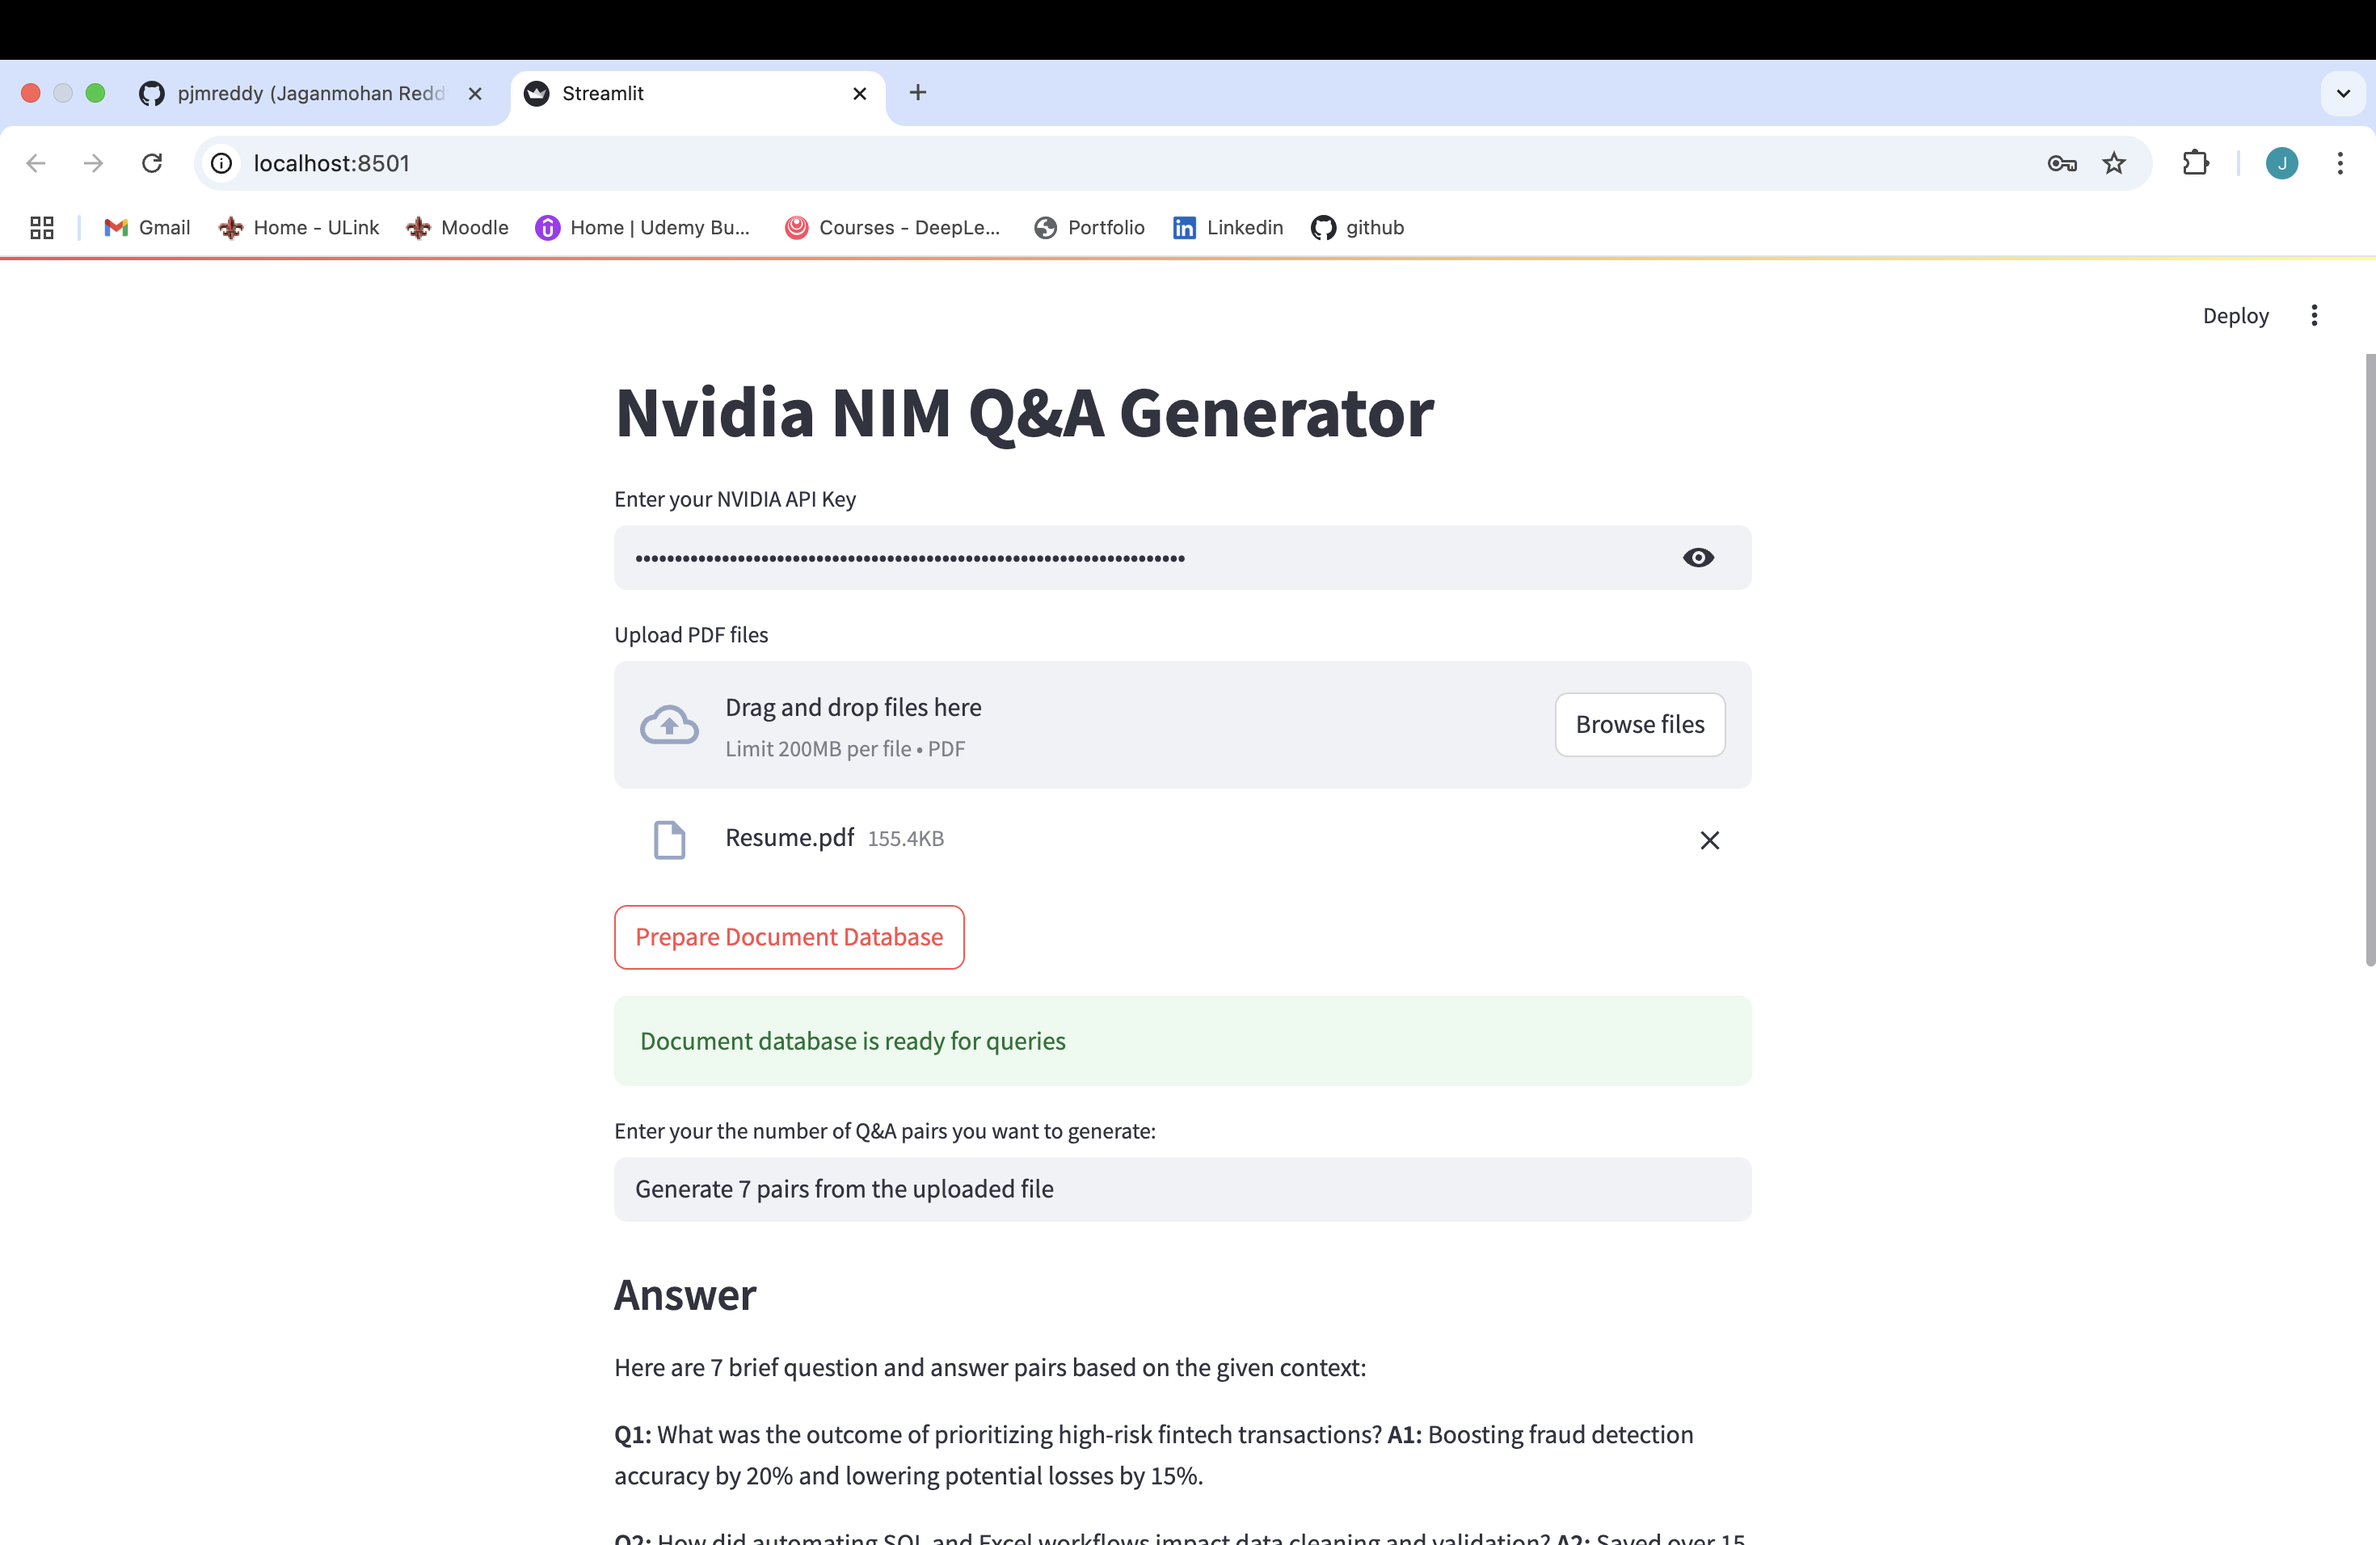
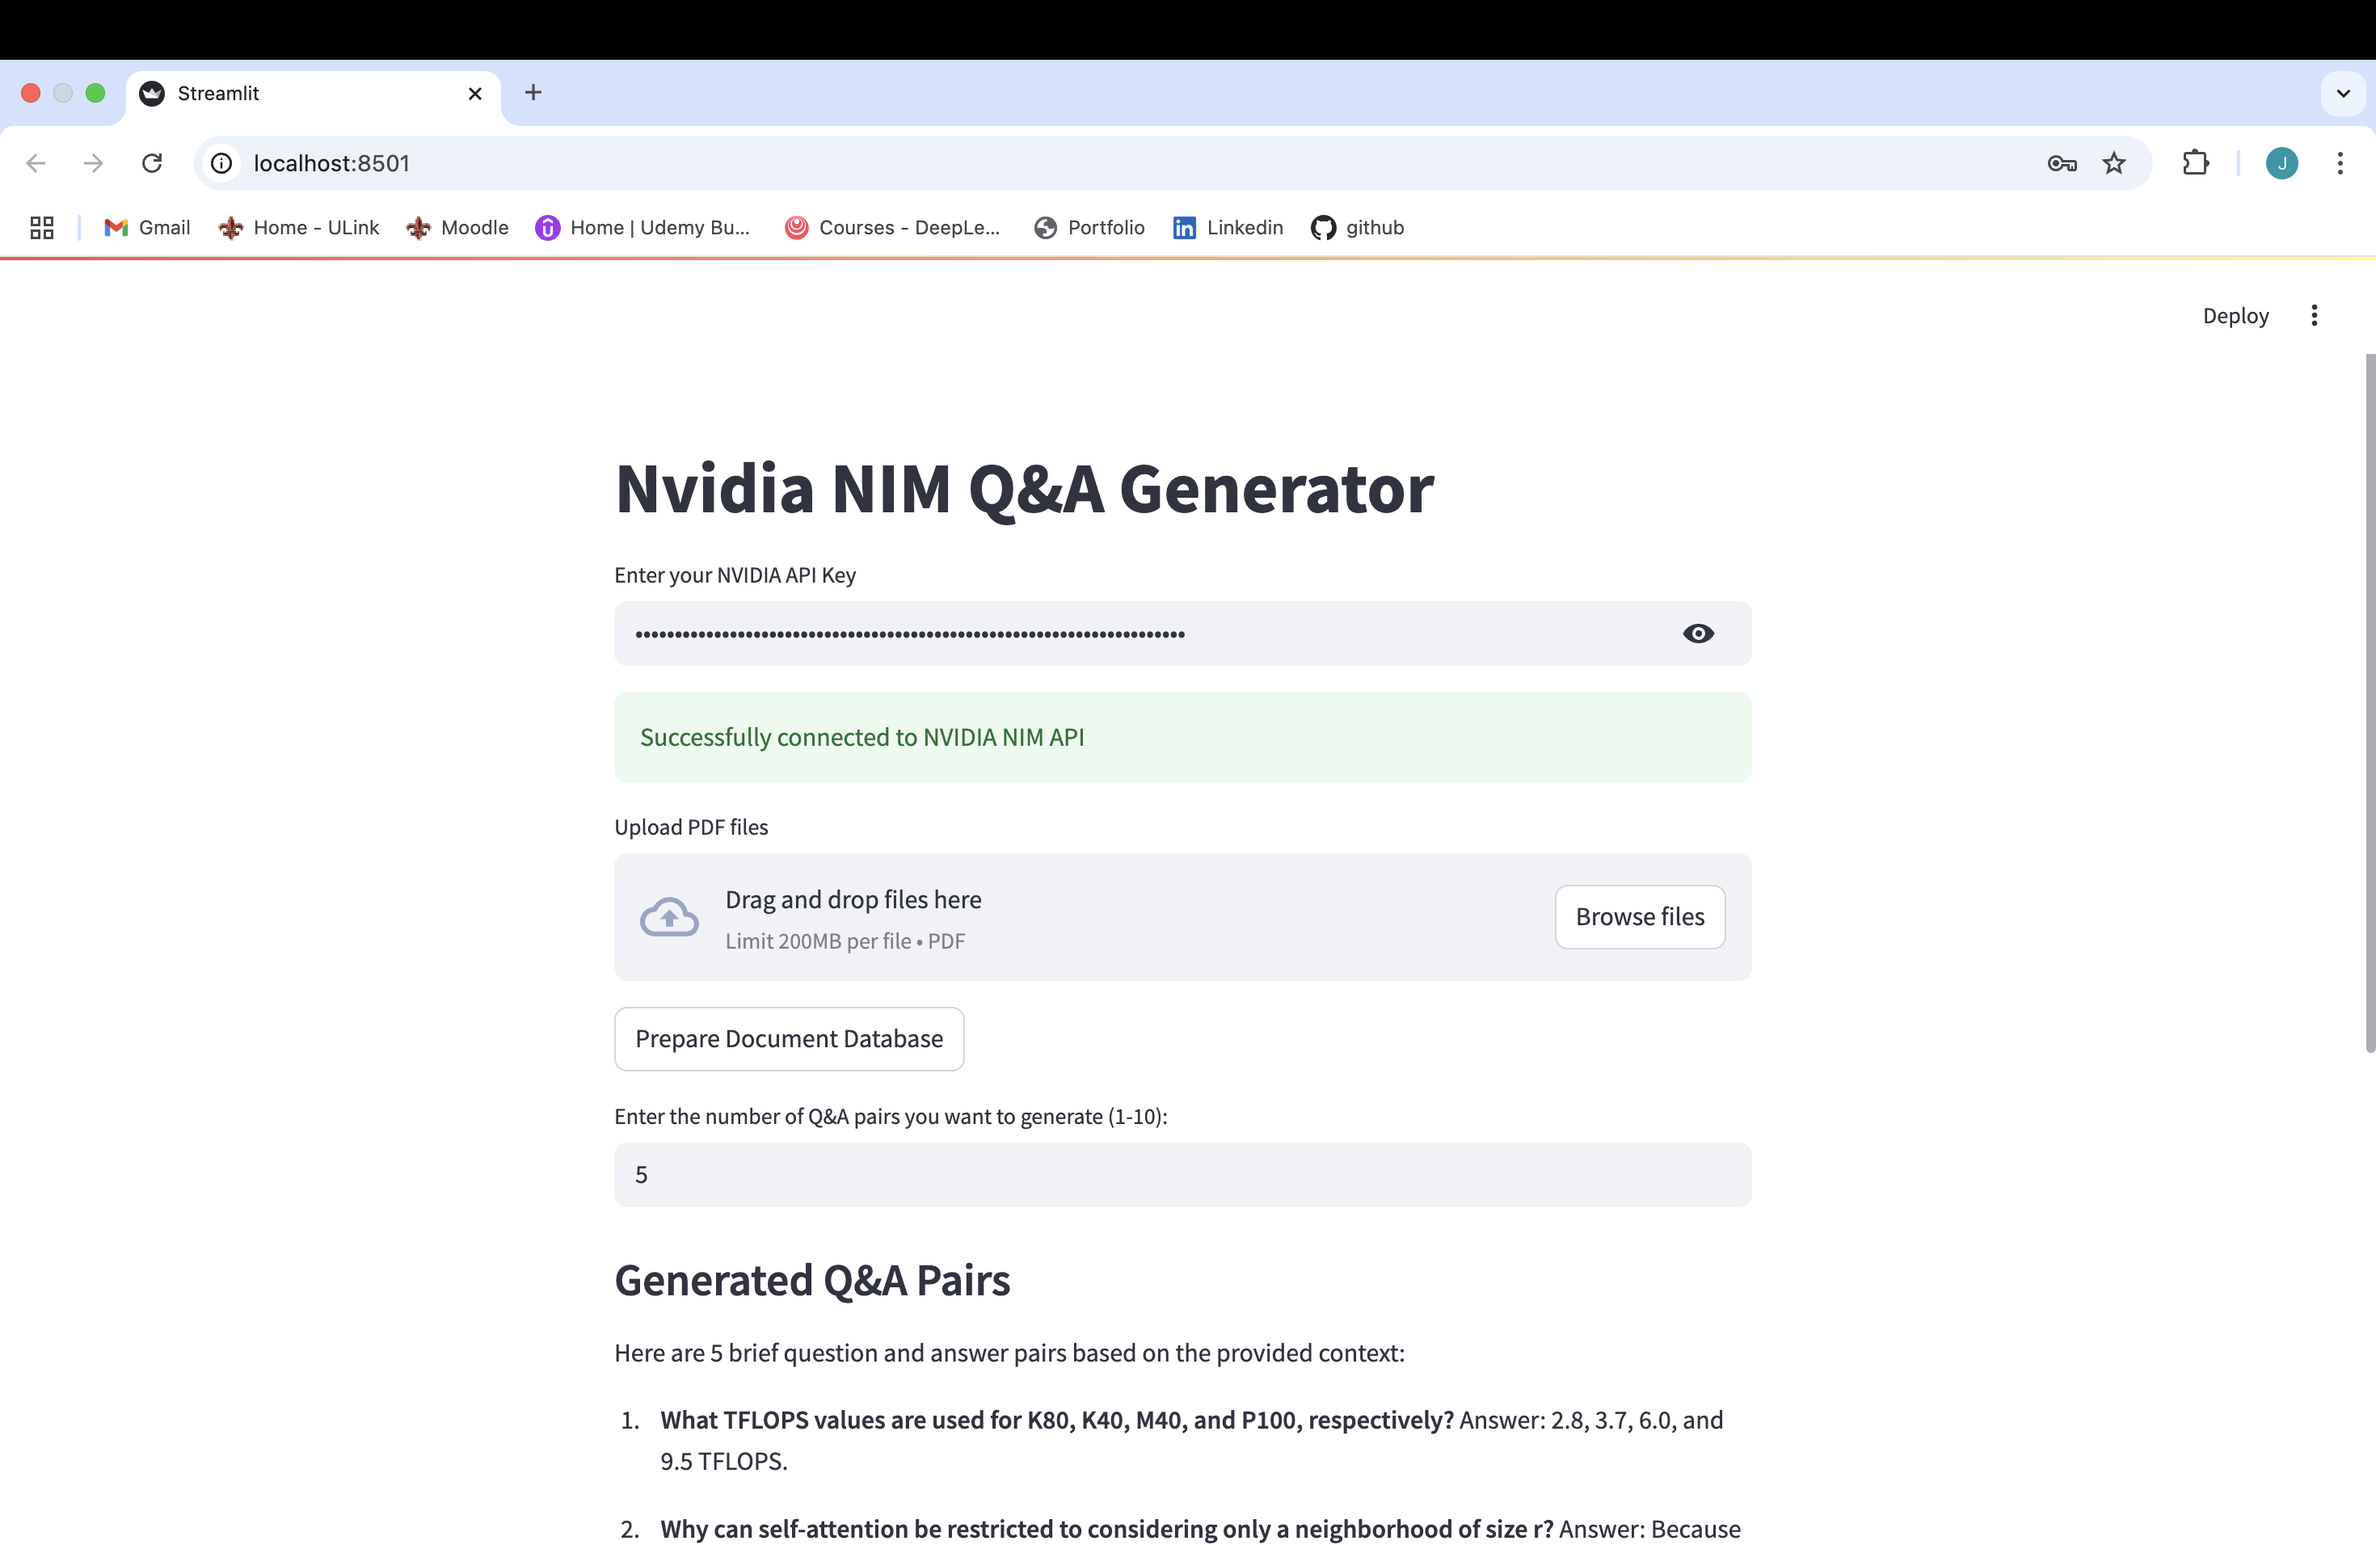
upgrade

diff --git a/nvidia_nim.py b/nvidia_nim.py
@@ -27,50 +27,84 @@ elif not api_key.startswith("nvapi"):
 os.environ['NVIDIA_API_KEY'] = api_key
 
 # Initialize the LLM
-llm = ChatNVIDIA(model="meta/llama3-70b-instruct")
+try:
+    llm = ChatNVIDIA(model="meta/llama3-70b-instruct")
+    st.success("Successfully connected to NVIDIA NIM API")
+except Exception as e:
+    st.error(f"Error connecting to NVIDIA NIM API: {str(e)}")
+    st.info("Please check your API key and try again")
+    st.stop()
 
 # Function to create vector embeddings
 def create_vector_db():
     if "vector_store" not in st.session_state:
-        # Create embeddings
-        embeddings = NVIDIAEmbeddings()
-        
-        if uploaded_files:
-            # Save uploaded files temporarily
-            temp_dir = "./temp_uploads"
-            os.makedirs(temp_dir, exist_ok=True)
-            for file in uploaded_files:
-                with open(os.path.join(temp_dir, file.name), "wb") as f:
-                    f.write(file.getbuffer())
-            doc_loader = PyPDFDirectoryLoader(temp_dir)
-        else:
-            # Default to us_census directory if no files uploaded
-            doc_loader = PyPDFDirectoryLoader("./temp")
+        try:
+            # Create embeddings
+            embeddings = NVIDIAEmbeddings()
             
-        documents = doc_loader.load()
-        
-        # Split documents into chunks
-        text_splitter = RecursiveCharacterTextSplitter(chunk_size=700, chunk_overlap=50)
-        doc_chunks = text_splitter.split_documents(documents[:30])
-        
-        # Create vector store
-        st.session_state.vector_store = FAISS.from_documents(doc_chunks, embeddings)
-        
-        # Clean up temp files if they exist
-        if uploaded_files and os.path.exists(temp_dir):
-            for file in os.listdir(temp_dir):
-                os.remove(os.path.join(temp_dir, file))
-            os.rmdir(temp_dir)
+            # Check if files were uploaded and process them first
+            if uploaded_files and len(uploaded_files) > 0:
+                st.info(f"Processing {len(uploaded_files)} uploaded PDF files...")
+                # Save uploaded files temporarily
+                temp_dir = "./temp_uploads"
+                os.makedirs(temp_dir, exist_ok=True)
+                for file in uploaded_files:
+                    with open(os.path.join(temp_dir, file.name), "wb") as f:
+                        f.write(file.getbuffer())
+                doc_loader = PyPDFDirectoryLoader(temp_dir)
+                
+                documents = doc_loader.load()
+                
+                # Split documents into chunks
+                text_splitter = RecursiveCharacterTextSplitter(chunk_size=700, chunk_overlap=50)
+                doc_chunks = text_splitter.split_documents(documents[:30])
+                
+                # Create vector store with progress indicator
+                with st.spinner("Creating vector embeddings... This may take a moment"):
+                    st.session_state.vector_store = FAISS.from_documents(doc_chunks, embeddings)
+                
+                # Clean up temp files
+                if os.path.exists(temp_dir):
+                    for file in os.listdir(temp_dir):
+                        os.remove(os.path.join(temp_dir, file))
+                    os.rmdir(temp_dir)
+            else:
+                # Default to temp directory if no files uploaded
+                st.info("No files uploaded. Using saved files from temp directory...")
+                temp_dir = "./temp"
+                os.makedirs(temp_dir, exist_ok=True)
+                # Check if directory has files
+                if not os.listdir(temp_dir):
+                    st.error("No files found in the default directory. Please upload PDF files.")
+                    return
+                    
+                doc_loader = PyPDFDirectoryLoader(temp_dir)
+                documents = doc_loader.load()
+                
+                # Split documents into chunks
+                text_splitter = RecursiveCharacterTextSplitter(chunk_size=700, chunk_overlap=50)
+                doc_chunks = text_splitter.split_documents(documents[:30])
+                
+                # Create vector store with progress indicator
+                with st.spinner("Creating vector embeddings... This may take a moment"):
+                    st.session_state.vector_store = FAISS.from_documents(doc_chunks, embeddings)
+                    st.success("Successfully processed files from temp directory")
+        except Exception as e:
+            st.error(f"Error creating vector database: {str(e)}")
+            return
 
 # Create prompt template
 qa_prompt = ChatPromptTemplate.from_template(
 """
-Generate a number of brief question and answer pairs asked by user and based on the given context.
-Please provide the most accurate response based on the context.
+Generate {input} brief question and answer pairs based on the given context.
+Each pair should be factual and directly derived from the provided documents.
+Format your response as numbered Q&A pairs with clear separation between questions and answers.
+
 <context>
 {context}
-<context>
-Questions:{input}
+</context>
+
+Generate exactly {input} question and answer pairs. Be concise and accurate.
 """
 )
 # Load documents - check for uploaded files first
@@ -83,36 +117,57 @@ if st.button("Prepare Document Database"):
 
 
 # User input section
-user_question = st.text_input("Enter your the number of Q&A pairs you want to generate:")
+user_question = st.text_input("Enter the number of Q&A pairs you want to generate (1-10):")
+
+# Validate user input is a number
+if user_question:
+    try:
+        num_pairs = int(user_question)
+        if num_pairs < 1 or num_pairs > 10:
+            st.warning("Please enter a number between 1 and 10")
+            user_question = None
+    except ValueError:
+        st.warning("Please enter a valid number")
+        user_question = None
 
 # Process user question
 if user_question and "vector_store" in st.session_state:
-    with st.spinner("Searching for answer..."):
-        # Create document chain
-        document_chain = create_stuff_documents_chain(llm, qa_prompt)
-        
-        # Create retriever
-        retriever = st.session_state.vector_store.as_retriever()
-        
-        # Create retrieval chain
-        retrieval_chain = create_retrieval_chain(retriever, document_chain)
-        
-        # Time the response
-        start_time = time.process_time()
-        response = retrieval_chain.invoke({'input': user_question})
-        processing_time = time.process_time() - start_time
-        
-        # Display answer
-        st.subheader("Answer")
-        st.write(response['answer'])
-        st.caption(f"Processing time: {processing_time:.2f} seconds")
+    try:
+        with st.spinner("Generating Q&A pairs..."):
+            # Create document chain
+            document_chain = create_stuff_documents_chain(llm, qa_prompt)
+            
+            # Create retriever
+            retriever = st.session_state.vector_store.as_retriever()
+            
+            # Create retrieval chain
+            retrieval_chain = create_retrieval_chain(retriever, document_chain)
+            
+            # Time the response with a timeout mechanism
+            start_time = time.process_time()
+            
+            # Set a timeout for the API call
+            try:
+                response = retrieval_chain.invoke({'input': user_question})
+                processing_time = time.process_time() - start_time
+                
+                # Display answer
+                st.subheader("Generated Q&A Pairs")
+                st.write(response['answer'])
+                st.caption(f"Processing time: {processing_time:.2f} seconds")
 
-        # Show relevant document chunks
-        with st.expander("Document Sources"):
-            for i, doc in enumerate(response["context"]):
-                st.markdown(f"**Source {i+1}**")
-                st.write(doc.page_content)
-                st.divider()
+                # Show relevant document chunks
+                with st.expander("Document Sources"):
+                    for i, doc in enumerate(response["context"]):
+                        st.markdown(f"**Source {i+1}**")
+                        st.write(doc.page_content)
+                        st.divider()
+            except Exception as e:
+                st.error(f"Error generating Q&A pairs: {str(e)}")
+                st.info("The API request might have timed out. Try with a smaller number of Q&A pairs.")
+    except Exception as e:
+        st.error(f"Unexpected error: {str(e)}")
+        st.info("Please try again or check your API key.")
 elif user_question and "vector_store" not in st.session_state:
     st.warning("Please prepare the document database first by clicking the 'Prepare Document Database' button.")
 
